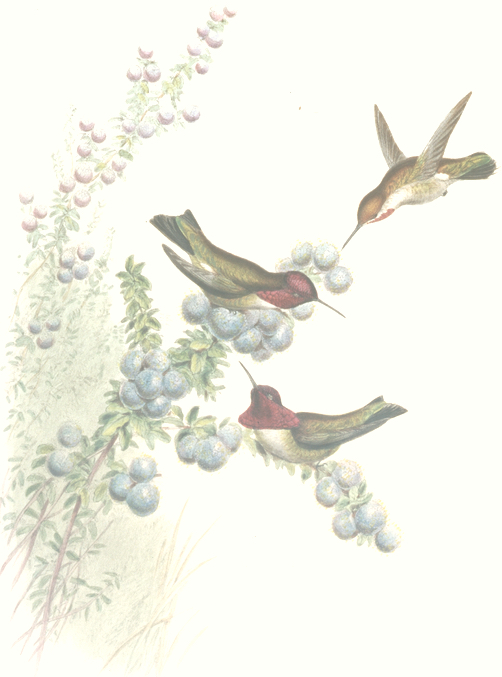
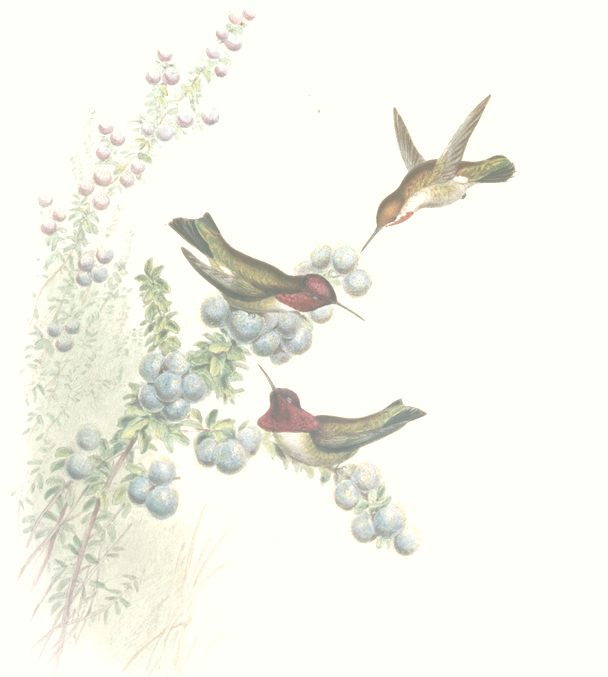
What are we doing cleanup and responsiveness

Changed region(s): [[0.0, 0.0, 0.9861, 0.9616], [0.2988, 0.7755, 0.3884, 0.8685], [0.2988, 0.8996, 0.3586, 0.9306]]

diff --git a/src/pages/what-are-we-doing.js b/src/pages/what-are-we-doing.js
@@ -18,8 +18,8 @@ const WhatAreWeDoingPage = () => (
             subtitle="WHAT ARE WE DOING?"
           />
           <p>Terran Collective’s work is creating tools, systems and practices that bring us closer together, build trust, and allow us to coordinate bioregional decision making and collective action effectively. All technology encodes the worldview of its authors. What happens if we create technology in service to All Beings Thriving?  We want to create free and open-source software, for everyone, to advance the transition to a sacred and regenerative economy. We are also experimenting with cooperative human practices of coordination like decentralized governance and gift economics. </p>
-          <Button to="#scopeofpractice">Scopes of practice</Button>
-          <Button to="#roadmap">Roadmap</Button>
+          <Button to="/what-are-we-doing/#scope-of-practice" label="Scopes of practice" />
+          <Button to="/what-are-we-doing/#roadmap" label="Roadmap" />
         </div>
       </Panel>
       <div className="heroPanelBg"></div>
@@ -27,6 +27,7 @@ const WhatAreWeDoingPage = () => (
 
     <Panel justification="center">
       <div className="twoColumnsLeftText">
+      <a name="scope-of-practice"></a>
         <Headline
           title="Technology for thriving"
           subtitle="SCOPE OF PRACTICE"
@@ -53,7 +54,7 @@ const WhatAreWeDoingPage = () => (
 
     <Panel justification="center">
       <div className="twoColumnsLeftImage">
-        <Image filename="what_do/what_do_cyanocitta_stelleri2x.jpg" alt="Cyanocitta stelleri" showCaption="true" />
+        <Image filename="what_do/what_do_calypte_anna2x.jpg" alt="Calypte anna" showCaption="true" />
       </div>
       <div className="twoColumnsRightText">
         <Headline
@@ -110,18 +111,22 @@ const WhatAreWeDoingPage = () => (
         </div>
       </div>
       <div className="twoColumnsRightImage">
-        <Image filename="what_do/what_do_aquilegia_formosa2x.jpg" alt="Aquilegia formosa" showCaption="true" />
+        <Image filename="what_do/what_do_calypso_bulbosa2x.jpg" alt="Aquilegia formosa" showCaption="true" />
       </div>
     </Panel>
 
     <Panel justification="center">
       <div className="roadmap">
+        <a name="roadmap"></a>
         <Headline
           title=""
           subtitle=""
         />
 
         <div className="timelineGroup">
+          <div className="timeline">
+            <div className="timelinePin"></div>
+          </div>
           <div className="twoColumnsTimelineLeft">
             <Headline
               title="Gathering resources, mapping the bioregion and building our network of collaborators"
@@ -160,6 +165,9 @@ const WhatAreWeDoingPage = () => (
         </div>
 
         <div className="timelineGroup">
+          <div className="timeline">
+            <div className="timelinePin"></div>
+          </div>
           <div className="twoColumnsTimelineLeft">
             <div className="timelineItem">
               Develop regular meetings, events and gatherings: Terran Camp
@@ -193,6 +201,9 @@ const WhatAreWeDoingPage = () => (
         </div>
 
         <div className="timelineGroup">
+          <div className="timeline">
+            <div className="timelinePin"></div>
+          </div>
           <div className="twoColumnsTimelineLeft">
             <Headline
               title="Implement the first iteration of our collective ownership, governance and resource sharing systems, grow the ecosystem"
@@ -217,6 +228,9 @@ const WhatAreWeDoingPage = () => (
         </div>
 
         <div className="timelineGroup">
+          <div className="timeline">
+            <div className="timelinePin"></div>
+          </div>
           <div className="twoColumnsTimelineLeft">
             <div className="timelineItem">
               Cospiracy
@@ -238,6 +252,9 @@ const WhatAreWeDoingPage = () => (
         </div>
 
         <div className="timelineGroup">
+          <div className="timeline">
+            <div className="timelinePin"></div>
+          </div>
           <div className="twoColumnsTimelineLeft">
             <Headline
               title="Building tools that create commons, make tools that make it possible for anyone to create a collective, deepening community in the bay"
@@ -265,6 +282,9 @@ const WhatAreWeDoingPage = () => (
         </div>
 
         <div className="timelineGroup">
+          <div className="timeline">
+            <div className="timelinePin"></div>
+          </div>
           <div className="twoColumnsTimelineLeft">
             <div className="timelineItem">
               We seek land to steward in the Bay Area to create a regenerative and fire-resilient community that will be a haven for climate refugees

diff --git a/src/components/layout.css b/src/components/layout.css
@@ -811,6 +811,7 @@ footer {
 .pageHero {
   max-width: 90%;
   width: 50%;
+  text-align: center;
 }
 
 .pageHero h1, .pageHero h3 {
@@ -1103,6 +1104,36 @@ ul.smallWhiteCards {
 .timelineGroup {
   display: flex;
   align-items: flex-start;
+  position: relative;
+}
+
+.roadmap .timelineGroup:nth-child(odd) {
+  flex-wrap: wrap-reverse;
+}
+.roadmap .timelineGroup:nth-child(even) {
+  flex-wrap: wrap;
+}
+
+.timeline {
+  width: 5px;
+  border-radius: 5px;
+  background-image: linear-gradient(180deg, #F3F3F3 0%, #FFFFF9 96%);
+  position: absolute;
+  left: 50%;
+  margin-left: -2px;
+  top: 20px;
+  height: 120%;
+}
+
+.timelinePin {
+  width: 30px;
+  height: 30px;
+  border-radius: 20px;
+  border: 5px solid rgba(243, 243, 243, 1.000);
+  position: absolute;
+  left: -12px;
+  top: 0;
+  background-color: rgba(255, 255, 249, 1.000);
 }
 
 .twoColumnsTimelineLeft, .twoColumnsTimelineRight {
@@ -1339,6 +1370,25 @@ ul.team_members {
 }
 
 @media only screen and (max-width: 600px) {
+
+  .twoColumnsTimelineLeft, .twoColumnsTimelineRight {
+    width: 100%;
+    margin: 2.5%;
+  }
+
+  .timelineGroup {
+    padding-bottom: 100px;
+  }
+
+  .timelineGroup figure {
+    display: none;
+  }
+
+
+  .timeline {
+    display: none;
+  }
+
   .triad li, .team_members li {
     padding: 15px;
     margin: 0;
